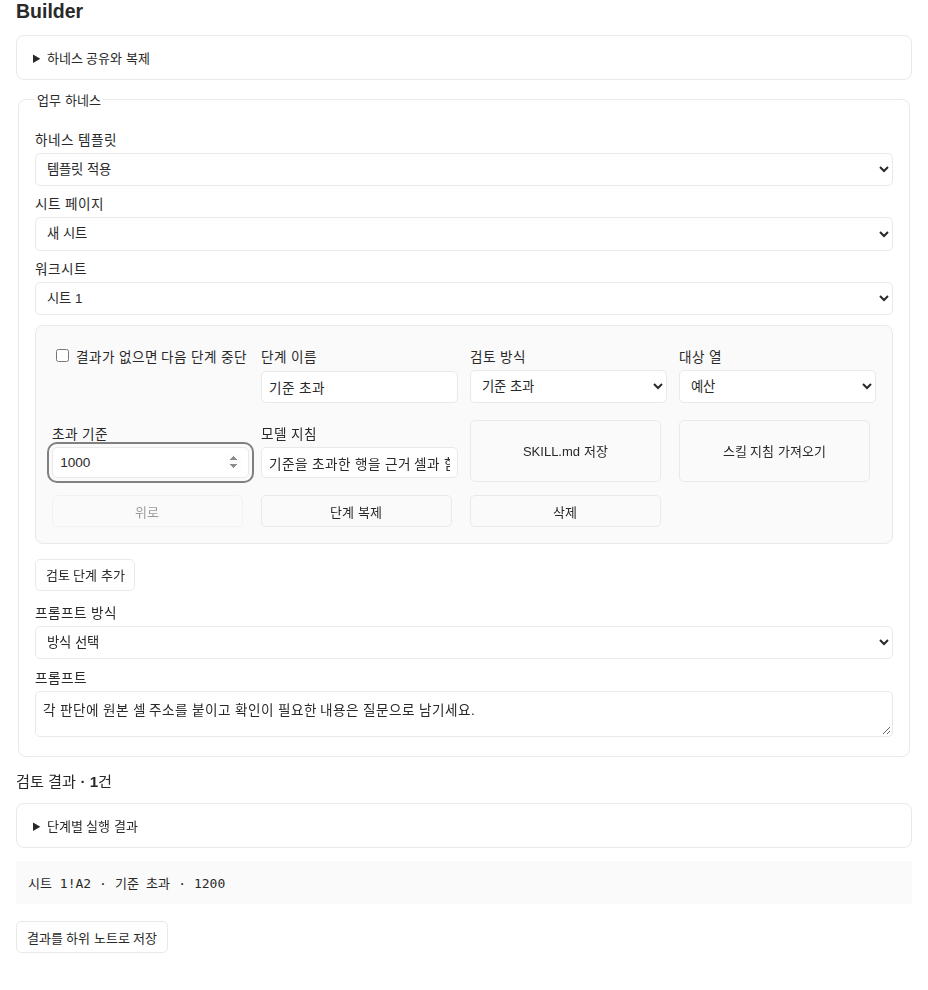
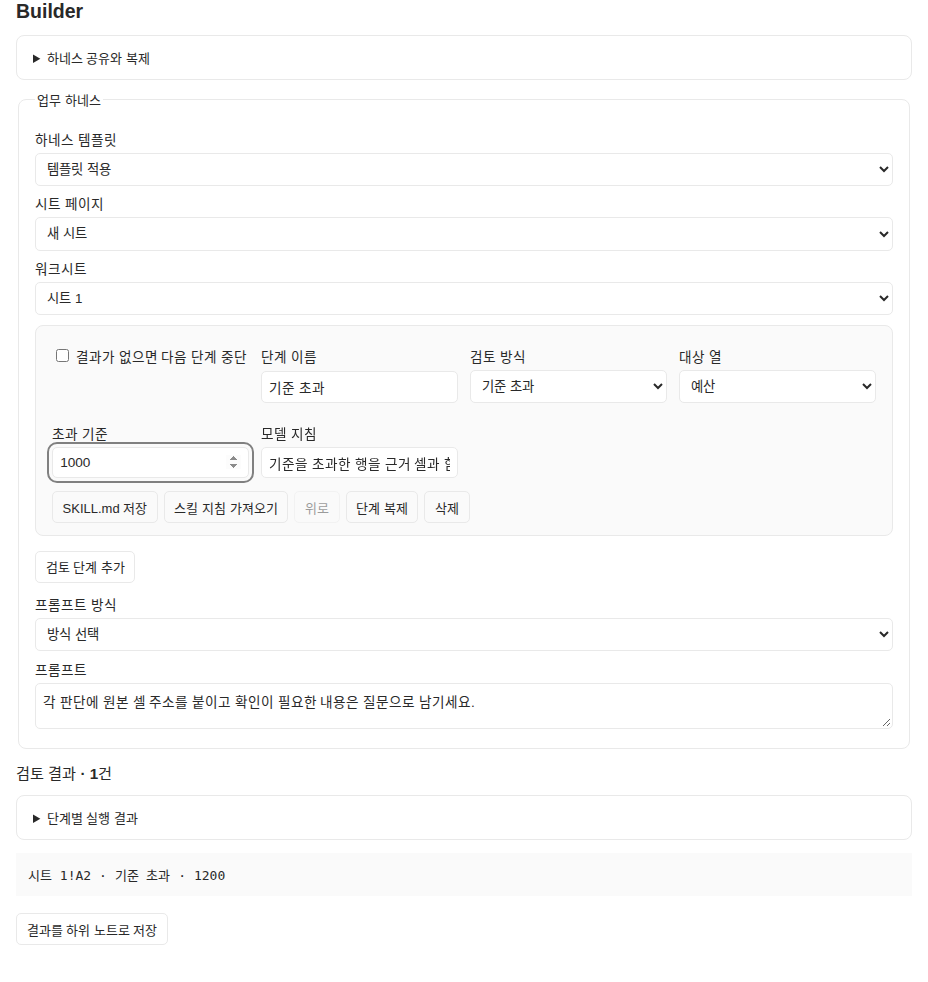
Improve spacing between descriptions and controls across workspace views

diff --git a/src/Builder.tsx b/src/Builder.tsx
@@ -458,43 +458,45 @@ export default function Builder({
                 onChange={(e) => updateRule(i, { instruction: e.target.value })}
               />
             </label>
-            <SkillFile
-              name={rule.label}
-              instruction={rule.instruction}
-              onRead={(s) =>
-                updateRule(i, { label: s.name, instruction: s.instruction })
-              }
-              onError={setError}
-            />
-            <button
-              disabled={!i}
-              onClick={() => {
-                const rules = [...config.rules];
-                [rules[i - 1], rules[i]] = [rules[i], rules[i - 1]];
-                patch({ rules });
-              }}
-            >
-              위로
-            </button>
-            <button
-              onClick={() =>
-                patch({
-                  rules: [
-                    ...config.rules,
-                    { ...rule, label: rule.label + " 사본" },
-                  ],
-                })
-              }
-            >
-              단계 복제
-            </button>
-            <button
-              onClick={() =>
-                patch({ rules: config.rules.filter((_, j) => i !== j) })
-              }
-            >
-              삭제
-            </button>
+            <div className="stage-actions">
+              <SkillFile
+                name={rule.label}
+                instruction={rule.instruction}
+                onRead={(s) =>
+                  updateRule(i, { label: s.name, instruction: s.instruction })
+                }
+                onError={setError}
+              />
+              <button
+                disabled={!i}
+                onClick={() => {
+                  const rules = [...config.rules];
+                  [rules[i - 1], rules[i]] = [rules[i], rules[i - 1]];
+                  patch({ rules });
+                }}
+              >
+                위로
+              </button>
+              <button
+                onClick={() =>
+                  patch({
+                    rules: [
+                      ...config.rules,
+                      { ...rule, label: rule.label + " 사본" },
+                    ],
+                  })
+                }
+              >
+                단계 복제
+              </button>
+              <button
+                onClick={() =>
+                  patch({ rules: config.rules.filter((_, j) => i !== j) })
+                }
+              >
+                삭제
+              </button>
+            </div>
           </div>
         ))}
         <button

diff --git a/tests/ui/layout.spec.ts b/tests/ui/layout.spec.ts
@@ -80,3 +80,43 @@ test("narrow screens can navigate, read code and reach dialog controls", async (
   await expect(open).toHaveAttribute("aria-expanded", "false");
   await expect(page.locator(".network-sheet")).toBeVisible();
 });
+
+for (const width of [390, 780, 1440]) {
+  test(`captions and action groups remain separated at ${width}px`, async ({ page }) => {
+    await page.setViewportSize({ width, height: 800 });
+    await page.goto("/");
+    const menu = page.getByRole("button", { name: "왼쪽 메뉴 펼치기" });
+    async function openFromMenu(name: string) {
+      if (await menu.isVisible()) await menu.click();
+      await page.getByRole("button", { name, exact: true }).click();
+    }
+    async function gapAbove(selector: string) {
+      return page.locator(selector).first().evaluate((e) =>
+        e.getBoundingClientRect().top - e.previousElementSibling!.getBoundingClientRect().bottom,
+      );
+    }
+    for (const [entry, section, actions] of [
+      ["IaCD 아키텍처", ".architecture-start", ".arch-start-options"],
+      ["인프라 문서", ".infrastructure-start", ".infra-actions"],
+    ]) {
+      await openFromMenu(entry);
+      expect(await gapAbove(section + " > " + actions)).toBeGreaterThanOrEqual(12);
+      expect(await page.locator(section).evaluate(e => parseFloat(getComputedStyle(e).paddingLeft))).toBeGreaterThanOrEqual(16);
+      await fitsWidth(page, section);
+      await page.locator(section + " header button").click();
+    }
+    await openFromMenu("새 시트 테이블");
+    expect(await gapAbove(".sheet-toolbar + p")).toBeGreaterThanOrEqual(8);
+    await openFromMenu("Builder 만들기");
+    const actions = page.locator(".stage-actions").first();
+    await expect(actions).toBeVisible();
+    await fitsWidth(page, ".stage-actions");
+    const boxes = await actions.locator("button").evaluateAll(items =>
+      items.map(e => { const r = e.getBoundingClientRect(); return { left:r.left, right:r.right, top:r.top, bottom:r.bottom }; }),
+    );
+    for (let i = 1; i < boxes.length; i++) {
+      const a = boxes[i - 1], b = boxes[i];
+      expect(Math.max(b.left - a.right, b.top - a.bottom)).toBeGreaterThanOrEqual(5.9);
+    }
+  });
+}

diff --git a/src/styles.css b/src/styles.css
@@ -724,6 +724,7 @@ textarea {
 }
 .editor-toolbar {
   display: flex;
+  flex-wrap: wrap;
   align-items: center;
   gap: 5px;
   border: 1px solid var(--line);
@@ -733,8 +734,10 @@ textarea {
   background: var(--surface);
 }
 .editor-toolbar button {
-  display: grid;
-  place-items: center;
+  display: inline-flex;
+  align-items: center;
+  justify-content: center;
+  gap: 6px;
   padding: 6px;
   border-radius: 4px;
 }
@@ -2445,7 +2448,7 @@ textarea {
   display: flex;
   gap: 10px;
   flex-wrap: wrap;
-  margin: 24px 0;
+  margin: 0;
 }
 @media (min-width: 1300px) {
   .document-layout.sheet-layout:has(.architecture-document) .document {
@@ -2689,3 +2692,27 @@ textarea {
 .architecture-catalog select[size] option { padding: 4px 6px; }
 .code-jump { margin-block: 4px; }
 .terraform-live pre:focus-visible { outline: 2px solid var(--muted); outline-offset: 2px; }
+
+/* Give explanatory text a separate row from the action it describes. */
+.dialog:is(.architecture-start, .infrastructure-start) {
+  padding: clamp(16px, 3vw, 24px);
+}
+:is(.architecture-start, .infrastructure-start) > header { gap: 12px; }
+:is(.architecture-start, .infrastructure-start) > * + * { margin-block-start: 12px; }
+.architecture-start > .architecture-catalog { margin-block-end: 0; }
+.catalog-empty p { margin-block-end: 8px; }
+.sheet-toolbar + p { margin-block: 8px; }
+:is(.infra-preview, .infra-comparison, .infra-detail) > :is(p, label, textarea) + :is(.button, .infra-actions),
+.workflow-source + .infra-actions { margin-block-start: 12px; }
+.workflow-source { display: grid; gap: 6px; }
+.builder-stage .stage-actions {
+  display: flex; flex-wrap: wrap; align-items: center;
+  gap: 6px; grid-column: 1 / -1;
+}
+.builder-stage .stage-actions button { margin: 0; }
+.terraform-live label:has(select) { display: inline-flex; flex-wrap: wrap; align-items: center; gap: 6px; max-width: 100%; }
+.terraform-live label + .code-jump { margin-inline-start: 8px; }
+@media (max-width: 600px) {
+  .terraform-live label:has(select) { display: grid; }
+  .terraform-live label + .code-jump { margin-inline-start: 0; }
+}

diff --git a/src/DocumentPermissions.tsx b/src/DocumentPermissions.tsx
@@ -20,7 +20,7 @@ export default function DocumentPermissions({
   }, [id]);
   return (
     <div className="overlay">
-      <section className="dialog" role="dialog" aria-label="문서 권한">
+      <section className="dialog recovery-dialog" role="dialog" aria-label="문서 권한">
         <header>
           <h2>문서 권한</h2>
           <button

diff --git a/src/WorkflowCanvas.tsx b/src/WorkflowCanvas.tsx
@@ -242,7 +242,7 @@ export function WorkflowCanvas({
       </div>
       {(full || active || !nodes.length) && (
         <div>
-          <label>
+          <label className="workflow-source">
             {full || !active ? "전체 원문" : active.label + " 블록"}
             <textarea
               ref={editor}
